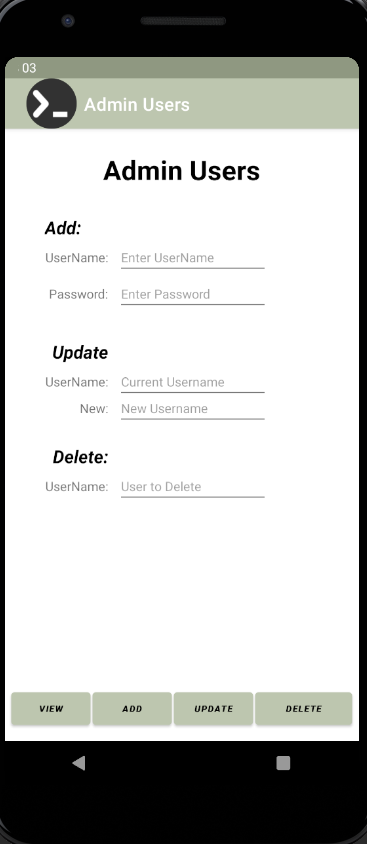
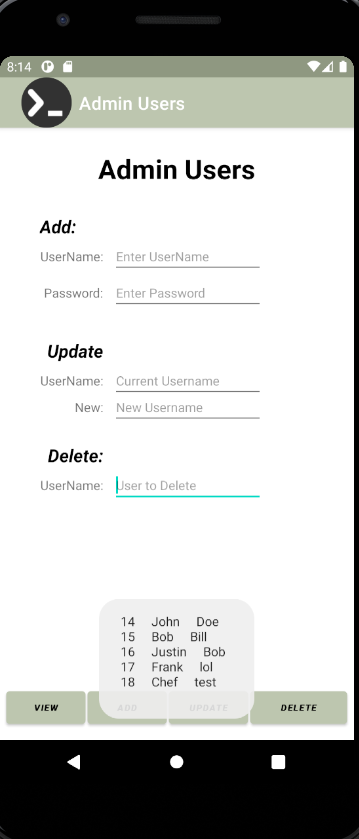
P2

diff --git a/p2/README.md b/p2/README.md
@@ -12,8 +12,8 @@
 *Sub-Heading:*
 
 1. Splash screen image, app title, intro text.
-2. Include artists' images and media.
-3. Images and buttons must be vertically and horizontally aligned.
+2. Must use persistent data: SQLite database.
+3. Insert at least five users.
 4. Must add background color(s) or theme.
 5. Create and display launcher icon image.
 
@@ -21,8 +21,8 @@
 
 * Course title, your name, assignment requirements, as per A1.
 * *Screenshot* of running application's splash screen.
-* *Screenshot* of running application's follow-up screen.
-* *Screenshot* of running application's play and pause user interfaces.
+* *Screenshot* of running application's Main screen.
+* *Screenshot* of running application's add, update, and delete functions.
 
 #### Assignment Code:
 
@@ -44,13 +44,15 @@
 
 #### Assignment Screenshots:
 
-Gif of Application |
-:-------------------------:|
-![Gif of Music App](img/app.gif)
+![Gif of Application](img/app.gif)
 
 Screenshot of Splash Page            |  Screenshot of Social Page | Screenshot of Main Page
 :-------------------------:|:-------------------------:|:-------------------------:|
 ![Splash](img/splash.png)  |  ![Socials](img/socials.png)  |  ![Main](img/main.png)
+
+Screenshot of Added User            |  Screenshot of Updated User | Screenshot of Deleted User
+:-------------------------:|:-------------------------:|:-------------------------:|
+![Added](img/added.png)  |  ![Updated](img/updated.png)  |  ![Deleted](img/deleted.png)
 
 #### Tutorial Links:
 
